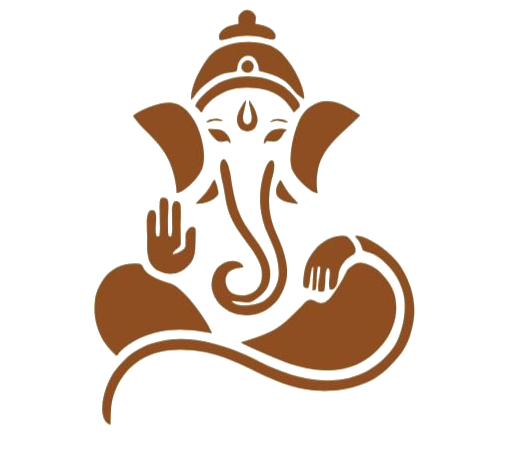
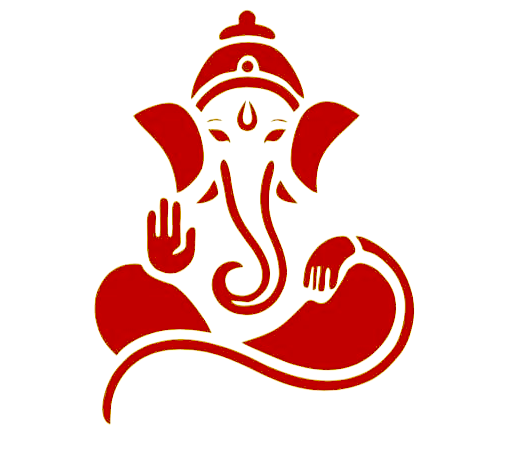
added form and a good bg

Changed region(s): [[0.1818, 0.0, 0.7879, 0.9666]]

diff --git a/index.html b/index.html
@@ -5,7 +5,7 @@
   <title>Nidhi &amp; Jay | Wedding Invitation</title>
   <link href="https://fonts.googleapis.com/css2?family=DM+Sans:wght@400;500;600;700&amp;family=Playfair+Display:wght@400;500;600;700&amp;family=Noto+Serif+Gujarati:wght@400;600&amp;display=swap" rel="stylesheet">
   <style>
-    :root{--paper:#fffaf0;--ink:#483a33;--red:#aa544b;--line:#dec9a9;--teal:#285c58}
+    :root{--paper:#fffaf0;--ink:#483a33;--red:#aa544b;--line:#dec9a9;--teal:#285c58;--line2:#918e83;}
     *{box-sizing:border-box}
     html{scroll-behavior:smooth;scroll-padding-top:85px}
     body{margin:0;width:100%;color:var(--ink);font-family:"DM Sans",sans-serif}
@@ -19,6 +19,7 @@
     .invitation-shell:before,.invitation-shell:after{content:"";position:absolute;top:8%;bottom:8%;width:1px;background:linear-gradient(transparent,#e7d5b94d,transparent);pointer-events:none}
     .invitation-shell:before{left:0}.invitation-shell:after{right:0}
     .fine-rule{height:1px;background:var(--line);max-width:470px;margin:0 auto}
+    .fine-rule2{height:2px;background:var(--line2);width:250px;margin:0 auto}
     .function-names{font-size: 25px; color: rgb(166, 85, 75); font-weight: 400; font-style: normal; margin-top:10px;}
     .event-card{border:1px solid #e8d8c3;background:#fffdf8;box-shadow:0 12px 35px #88654e0b}
     .event-card:before{display:block;color:#bd8171;font-size:17px;margin-bottom:14px}
@@ -27,6 +28,8 @@
     a:focus-visible,button:focus-visible,input:focus-visible{outline:3px solid #b36a55;outline-offset:3px}
     @media(max-width:640px){.invitation-shell:before,.invitation-shell:after{display:none}.petal{opacity:.35}}
     @media(prefers-reduced-motion:reduce){html{scroll-behavior:auto}.petal-layer{display:none}}
+    @font-face{font-family:'Halimun';src:url('/Users/nidhidilesh/Downloads/images/font/halimun/halimun.ttf') format('woff2');font-display:swap;font-style:normal;font-weight:400}
+.script-names{font-family:'Halimun',cursive;font-size:clamp(56px,12vw,10px);text-shadow:0 2px #fff9,0 5px 18px #bd965b30}
     /* Base Button Styling */
 .volume-btn {
   position: fixed;
@@ -187,8 +190,8 @@
    </nav>
   </header>
   <main class="w-full">
-    <img src="bg.jpeg" style="position:absolute;z-index: -998; opacity: 30%; width: 100%; height: 140%; "/>
-   <section id="home" data-template-id="hero-section" class="canva-section w-full px-5 pt-12 pb-16 sm:pt-16 sm:pb-24 text-center" style="background: rgb(255, 250, 240); z-index: -999;">
+    <img src="bg.png" style="position:absolute;z-index: -998; opacity: 1; width: 100%; height: 140%; "/>
+   <section id="home" data-template-id="hero-section" class="canva-section w-full px-5 pt-12 pb-16 sm:pt-16 sm:pb-24 text-center" style="background: rgb(255, 250, 240); z-index: -999; opacity: 1;">
     
     <div id="invitation" class="invitation-shell max-w-3xl mx-auto px-2 sm:px-14" style="padding-top: 40px;">
      <!-- <svg class="mx-auto mb-5 w-28 h-32 sm:w-36 sm:h-40 text-[#b2634e]" viewBox="0 0 160 180" fill="none" role="img" aria-label="Graceful line illustration of Lord Ganesha">
@@ -202,19 +205,22 @@
       </g>
      </svg> -->
      
-     <img class="ganesh hero-reveal" src="ganesha.png" style="accent-color:#aa544b; align-items: center;"/>
-     <p data-template-id="invocation" class="canva-text gujarati mb-3 hero-reveal" style="font-size: 19px; color: rgb(128, 83, 66); font-weight: 400; font-style: normal;">|| શ્રી ગણેશાય નમઃ ||</p>
-     <p data-template-id="elders-blessing" class="canva-text serif italic mb-8 hero-reveal" style="font-size: 17px; color: rgb(174, 101, 84); font-weight: 400; font-style: italic;">With the blessings of our elders</p>
-     <p data-template-id="bride-parents-invitation" class="canva-text serif leading-relaxed hero-reveal" style="font-size: 18px; color: rgb(72, 58, 51); font-weight: 400; font-style: normal;">Mrs. Jagruti Duarcadas and Mr. Dilesh Solanki</p>
+     <img class="ganesh hero-reveal" src="ganesha.png" style="accent-color:#ff1e05; align-items: center;z-index: -999;"/>
+     <p data-template-id="invocation" class="canva-text gujarati mb-3 mb-8 hero-reveal" style="font-size: 19px; color: rgb(189, 33, 33); font-weight: 400; font-style: normal;">|| શ્રી ગણેશાય નમઃ ||</p>
+     <p data-template-id="elders-blessing" class="canva-text serif italic hero-reveal" style="font-size: 16px; color: rgb(72, 58, 51); font-weight: 400; font-style: normal;">With the blessings of our elders</p>
+     <p data-template-id="bride-parents-invitation" class="canva-text serif mt-3 leading-relaxed hero-reveal" style="font-size: 18px; color: rgb(72, 58, 51); font-weight: 400; font-style: normal;"><strong>Mrs. Jagruti Duarcadas</strong> and <strong>Mr. Dilesh Manilal</strong></p>
      <p data-template-id="invitation-request" class="canva-text serif leading-relaxed mt-3 hero-reveal" style="font-size: 16px; color: rgb(72, 58, 51); font-weight: 400; font-style: normal;">cordially invite you to celebrate the wedding ceremony of their Daughter</p>
-     <h1 data-template-id="bride-name" class="canva-text serif italic mt-8 hero-reveal" style="font-size: 58px; font-weight: 500; color: rgb(139, 57, 57); font-style: italic;">Nidhi</h1>
-     <p data-template-id="with-word" class="canva-text serif mt-3 mb-1 hero-reveal" style="font-size: 17px; color: rgb(149, 121, 106); font-weight: 400; font-style: normal;">With</p>
-     <p data-template-id="groom-name" class="canva-text serif italic hero-reveal" style="font-size: 58px; font-weight: 500; color: rgb(139, 57, 57); font-style: italic;">Jay</p>
-     <p data-template-id="son-of" class="canva-text serif mt-7 mb-3 hero-reveal" style="font-size: 16px; color: rgb(121, 88, 78); font-weight: 400; font-style: normal;">Son of</p>
-     <p data-template-id="groom-parents-invitation" class="canva-text serif leading-relaxed hero-reveal" style="font-size: 18px; color: rgb(72, 58, 51); font-weight: 400; font-style: normal;">Mrs. Aarti Mehta and Mr. Deepak Mehta</p>
-     <p data-template-id="invitation-blessing" class="canva-text serif leading-relaxed max-w-xl mx-auto mt-8 hero-reveal" style="font-size: 17px; color: rgb(72, 58, 51); font-weight: 400; font-style: normal;">May your presence and blessings make these moments even more beautiful.</p>
-     <div class="fine-rule mt-9 mb-4"></div>
-     <p data-template-id="with-love" class="canva-text serif italic mt-8 hero-reveal" style="font-size: 17px; color: rgb(166, 85, 75); font-weight: 400; font-style: italic;">With love,</p>
+     <h1 data-template-id="bride-name" class="canva-text serif mt-8 hero-reveal script-names" style="font-size: 58px; font-weight: 500; color: rgb(139, 57, 57);">Nidhi</h1>
+     <p data-template-id="with-word" class="canva-text serif hero-reveal" style="font-size: 17px; color: rgb(149, 121, 106); font-weight: 400; font-style: normal;">With</p>
+     <p data-template-id="groom-name" class="canva-text serif mt-8 hero-reveal script-names" style="font-size: 58px; font-weight: 500; color: rgb(139, 57, 57);">Jay</p>
+     <p data-template-id="son-of" class="canva-text serif mt-8 mb-3 hero-reveal" style="font-size: 16px; color: rgb(72, 58, 51); font-weight: 400; font-style: normal;">Son of</p>
+     <p data-template-id="groom-parents-invitation" class="canva-text serif leading-relaxed hero-reveal" style="font-size: 18px; color: rgb(72, 58, 51); font-weight: 400; font-style: normal;"><strong>Mrs. Aarti Mehta</strong> and <strong>Mr. Deepak Mehta</strong></p><div class="fine-rule mt-9 mb-4"></div>
+     <p data-template-id="wedding-date" class="canva-text uppercase tracking-[.22em] hero-reveal" style="font-size: 12px; font-weight: 700; color: rgb(40, 92, 88); font-style: normal;">On 2nd February 2027 | Tuesday | 4:30pm</p>
+     <div class="fine-rule mt-4 mb-5"></div>
+     <p data-template-id="wedding-venue" class="canva-text serif italic hero-reveal" style="font-size: 22px; color: rgb(166, 85, 75); font-weight: 400; font-style: italic;">At Azzaro Resorts and Spa</p>
+     <p data-template-id="wedding-location" class="canva-text mt-2 uppercase hero-reveal" style="font-size: 15px; color: rgb(72, 58, 51); font-weight: 400; font-style: normal;">Diu</p>
+     <div class="fine-rule mt-5 mb-4"></div>
+     <p data-template-id="with-love" class="canva-text serif italic mt-5 hero-reveal" style="font-size: 17px; color: rgb(166, 85, 75); font-weight: 400; font-style: italic;">With love,</p>
      <p data-template-id="closing-names" class="canva-text serif mt-2 hero-reveal" style="font-size: 17px; color: rgb(72, 58, 51); font-weight: 400; font-style: normal;">Sneha &amp; Krisha</p>
     </div>
    </section>
@@ -232,20 +238,21 @@
         <article data-template-id="mama-card" class="canva-card event-card rounded-2xl p-7 text-center" style="background: rgb(233, 212, 241);">
            <img src="mosadu.png" class="rounded-2xl">
          <h4 data-template-id="mama-name" class="canva-text serif mb-3 function-names">Mama nu mosadu</h4>
+         <div class="fine-rule2 mt-4 mb-4"></div>
          <p data-template-id="mama-date" class="canva-text font-semibold" style="font-size: 14px; color: rgb(128, 80, 66); font-weight: 600; font-style: normal;">31 January 2027 | 10:00 am</p>
-         <!-- <p data-template-id="mama-time" class="canva-text mt-1" style="font-size: 14px; color: rgb(104, 76, 67); font-weight: 400; font-style: normal;">10:00 am</p> -->
-         <p data-template-id="mama-details" class="canva-text mt-2" style="font-size: 14px; color: rgb(104, 76, 67); font-weight: 400; font-style: normal;">Our residence | Vekaria Road, Diu</p>
-         <p data-template-id="reception-time" class="canva-text mt-1" style="font-size: 14px; color: rgb(104, 76, 67); font-weight: 400; font-style: normal;">Followed by lunch</p> 
+         <p data-template-id="mehendi-time" class="canva-text mt-1" style="font-size: 14px; color: rgb(104, 76, 67); font-weight: 400; font-style: normal;">At</p>
+         <p data-template-id="mama-details" class="canva-text mt-2" style="font-size: 14px; color: rgb(104, 76, 67); font-weight: 400; font-style: normal; font-weight: bold;">Our residence | Vekaria Road, Diu</p>
         </article>
        </div>
        <div class="ceremony-flip">
         <article data-template-id="mehendi-card" class="canva-card event-card rounded-2xl p-7 text-center" style="background: rgb(204, 214, 200);">
           <img src="mehendi.png" class="rounded-2xl">
          <h4 data-template-id="mehendi-name" class="canva-text serif mb-3 function-names">Mehendi</h4>
+         <div class="fine-rule2 mt-4 mb-4"></div>
          <p data-template-id="mehendi-date" class="canva-text font-semibold" style="font-size: 14px; color: rgb(128, 80, 66); font-weight: 600; font-style: normal;">31 January 2027 | 7:00 pm</p>
-         <!-- <p data-template-id="mehendi-time" class="canva-text mt-1" style="font-size: 14px; color: rgb(104, 76, 67); font-weight: 400; font-style: normal;">7:00 pm</p> -->
-         <p data-template-id="mehendi-details" class="canva-text mt-2" style="font-size: 14px; color: rgb(104, 76, 67); font-weight: 400; font-style: normal;">Our residence | Vekaria Road, Diu</p>
-         <p data-template-id="reception-time" class="canva-text mt-1" style="font-size: 14px; color: rgb(104, 76, 67); font-weight: 400; font-style: normal;">Followed by dinner</p> 
+         <p data-template-id="mehendi-time" class="canva-text mt-1" style="font-size: 14px; color: rgb(104, 76, 67); font-weight: 400; font-style: normal;">At</p>
+         <p data-template-id="mehendi-details" class="canva-text mt-2" style="font-size: 14px; color: rgb(104, 76, 67); font-weight: 400; font-style: normal; font-weight: bold;">Our residence | Vekaria Road, Diu</p>
+         <p data-template-id="reception-time" class="canva-text mt-1" style="font-size: 14px; color: rgb(104, 76, 67); font-weight: 400; font-style: normal;">Followed by snacks</p> 
         </article>
        </div>
       </div>
@@ -256,11 +263,12 @@
       <div class="grid md:grid-cols-2 lg:grid-cols-3 gap-5">
        <div class="ceremony-flip">
         <article data-template-id="vevishal-card" class="canva-card event-card rounded-2xl p-7 text-center" style="background: rgb(232, 182, 176);">
-          <img src="vevishal.png" class="rounded-2xl" width="313.66px">
+          <img src="vevishal.png" class="rounded-2xl">
          <h4 data-template-id="vevishal-name" class="canva-text serif mb-3 function-names">Vevishal</h4>
+         <div class="fine-rule2 mt-4 mb-4"></div>
          <p data-template-id="vevishal-date" class="canva-text font-semibold" style="font-size: 14px; color: rgb(128, 80, 66); font-weight: 600; font-style: normal;">1 February 2027 | 11:00 am</p>
-         <!-- <p data-template-id="vevishal-time" class="canva-text mt-1" style="font-size: 14px; color: rgb(104, 76, 67); font-weight: 400; font-style: normal;">11:00 am</p> -->
-         <p data-template-id="vevishal-details" class="canva-text mt-2" style="font-size: 14px; color: rgb(104, 76, 67); font-weight: 400; font-style: normal;">Hotel Hemal Gardens, Diu</p>
+         <p data-template-id="mehendi-time" class="canva-text mt-1" style="font-size: 14px; color: rgb(104, 76, 67); font-weight: 400; font-style: normal;">At</p>
+         <p data-template-id="vevishal-details" class="canva-text mt-2" style="font-size: 14px; color: rgb(104, 76, 67); font-weight: 400; font-style: normal; font-weight: bold;">Hotel Hemal Gardens, Diu</p>
          <p data-template-id="reception-time" class="canva-text mt-1" style="font-size: 14px; color: rgb(104, 76, 67); font-weight: 400; font-style: normal;">Followed by lunch</p> 
         </article>
        </div>
@@ -268,18 +276,20 @@
         <article data-template-id="mandap-card" class="canva-card event-card rounded-2xl p-7 text-center" style="background: rgb(255, 212, 244);">
           <img src="mandva.png" class="rounded-2xl">
          <h4 data-template-id="mandap-name" class="canva-text serif mb-3 function-names">Mandap Muhurat</h4>
+         <div class="fine-rule2 mt-4 mb-4"></div>
          <p data-template-id="mandap-date" class="canva-text font-semibold" style="font-size: 14px; color: rgb(128, 80, 66); font-weight: 600; font-style: normal;">1 February 2027 | 3:00 pm</p>
-         <!-- <p data-template-id="mandap-time" class="canva-text mt-1" style="font-size: 14px; color: rgb(104, 76, 67); font-weight: 400; font-style: normal;">3:00 pm</p> -->
-         <p data-template-id="mandap-details" class="canva-text mt-2" style="font-size: 14px; color: rgb(104, 76, 67); font-weight: 400; font-style: normal;">Our residence | Vekaria Road, Diu</p>
+         <p data-template-id="mehendi-time" class="canva-text mt-1" style="font-size: 14px; color: rgb(104, 76, 67); font-weight: 400; font-style: normal;">At</p>
+         <p data-template-id="mandap-details" class="canva-text mt-2" style="font-size: 14px; color: rgb(104, 76, 67); font-weight: 400; font-style: normal; font-weight: bold;">Our residence | Vekaria Road, Diu</p>
         </article>
        </div>
        <div class="ceremony-flip">
         <article data-template-id="sangeet-card" class="canva-card event-card rounded-2xl p-7 text-center" style="background: rgb(195, 205, 255);">
           <img src="sangeet.png" class="rounded-2xl">
          <h4 data-template-id="sangeet-name" class="canva-text serif mb-3 function-names">Sangeet</h4>
+         <div class="fine-rule2 mt-4 mb-4"></div>
          <p data-template-id="sangeet-date" class="canva-text font-semibold" style="font-size: 14px; color: rgb(128, 80, 66); font-weight: 600; font-style: normal;">1 February 2027 | 7:00 pm</p>
-         <!-- <p data-template-id="sangeet-time" class="canva-text mt-1" style="font-size: 14px; color: rgb(104, 76, 67); font-weight: 400; font-style: normal;">7:00 pm</p> -->
-         <p data-template-id="sangeet-details" class="canva-text mt-2" style="font-size: 14px; color: rgb(104, 76, 67); font-weight: 400; font-style: normal;">Hotel Hemal Gardens, Diu</p>
+         <p data-template-id="mehendi-time" class="canva-text mt-1" style="font-size: 14px; color: rgb(104, 76, 67); font-weight: 400; font-style: normal;">At</p>
+         <p data-template-id="sangeet-details" class="canva-text mt-2" style="font-size: 14px; color: rgb(104, 76, 67); font-weight: 400; font-style: normal; font-weight: bold;">Hotel Hemal Gardens, Diu</p>
          <p data-template-id="reception-time" class="canva-text mt-1" style="font-size: 14px; color: rgb(104, 76, 67); font-weight: 400; font-style: normal;">Followed by dinner</p> 
         </article>
        </div>
@@ -293,27 +303,30 @@
         <article data-template-id="haldi-card" class="canva-card event-card rounded-2xl p-7 text-center" style="background: rgb(250, 229, 167);">
           <img src="haldi.png" class="rounded-2xl">
          <h4 data-template-id="haldi-name" class="canva-text serif mb-3 function-names">Pithi</h4>
+         <div class="fine-rule2 mt-4 mb-4"></div>
          <p data-template-id="haldi-date" class="canva-text font-semibold" style="font-size: 14px; color: rgb(128, 80, 66); font-weight: 600; font-style: normal;">2 February 2027 | 10:00 am</p>
-         <!-- <p data-template-id="haldi-time" class="canva-text mt-1" style="font-size: 14px; color: rgb(104, 76, 67); font-weight: 400; font-style: normal;">10:00 am</p> -->
-         <p data-template-id="haldi-details" class="canva-text mt-2" style="font-size: 14px; color: rgb(104, 76, 67); font-weight: 400; font-style: normal;">Our residence | Vekaria Road, Diu</p>
+         <p data-template-id="mehendi-time" class="canva-text mt-1" style="font-size: 14px; color: rgb(104, 76, 67); font-weight: 400; font-style: normal;">At</p>
+         <p data-template-id="haldi-details" class="canva-text mt-2" style="font-size: 14px; color: rgb(104, 76, 67); font-weight: 400; font-style: normal; font-weight: bold;">Our residence | Vekaria Road, Diu</p>
         </article>
        </div>
        <div class="ceremony-flip">
         <article data-template-id="hastmelap-card" class="canva-card event-card rounded-2xl p-7 text-center" style="background: rgb(255, 144, 144);">
           <img src="hastmelap.png" class="rounded-2xl">
          <h4 data-template-id="hastmelap-name" class="canva-text serif mb-3 function-names">Hastmelap</h4>
+         <div class="fine-rule2 mt-4 mb-4"></div>
          <p data-template-id="hastmelap-date" class="canva-text font-semibold" style="font-size: 14px; color: rgb(128, 80, 66); font-weight: 600; font-style: normal;">2 February 2027 | 4:30 pm</p>
-         <!-- <p data-template-id="hastmelap-time" class="canva-text mt-1" style="font-size: 14px; color: rgb(104, 76, 67); font-weight: 400; font-style: normal;">4:30 pm</p> -->
-         <p data-template-id="hastmelap-details" class="canva-text mt-2" style="font-size: 14px; color: rgb(104, 76, 67); font-weight: 400; font-style: normal;">Azzaro Resorts and Spa, Diu</p>
+         <p data-template-id="mehendi-time" class="canva-text mt-1" style="font-size: 14px; color: rgb(104, 76, 67); font-weight: 400; font-style: normal;">At</p>
+         <p data-template-id="hastmelap-details" class="canva-text mt-2" style="font-size: 14px; color: rgb(104, 76, 67); font-weight: 400; font-style: normal; font-weight: bold;">Azzaro Resorts and Spa, Diu</p>
         </article>
        </div>
        <div class="ceremony-flip">
         <article data-template-id="reception-card" class="canva-card event-card rounded-2xl p-7 text-center" style="background: rgb(255, 206, 189);">
           <img src="wedding.png" class="rounded-2xl">
          <h4 data-template-id="reception-name" class="canva-text serif mb-3 function-names">Reception</h4>
+         <div class="fine-rule2 mt-4 mb-4"></div>
          <p data-template-id="reception-date" class="canva-text font-semibold" style="font-size: 14px; color: rgb(128, 80, 66); font-weight: 600; font-style: normal;">2 February 2027 | 7:00 pm</p>
-         <!-- <p data-template-id="reception-time" class="canva-text mt-1" style="font-size: 14px; color: rgb(104, 76, 67); font-weight: 400; font-style: normal;">7:00 pm</p> -->
-         <p data-template-id="reception-details" class="canva-text mt-2" style="font-size: 14px; color: rgb(104, 76, 67); font-weight: 400; font-style: normal;">Azzaro Resorts and Spa, Diu</p>
+         <p data-template-id="mehendi-time" class="canva-text mt-1" style="font-size: 14px; color: rgb(104, 76, 67); font-weight: 400; font-style: normal;">At</p>
+         <p data-template-id="reception-details" class="canva-text mt-2" style="font-size: 14px; color: rgb(104, 76, 67); font-weight: 400; font-style: normal; font-weight: bold;">Azzaro Resorts and Spa, Diu</p>
          <p data-template-id="reception-time" class="canva-text mt-1" style="font-size: 14px; color: rgb(104, 76, 67); font-weight: 400; font-style: normal;">Followed by dinner</p> 
         </article>
        </div>
@@ -365,7 +378,7 @@
 <script>
   const volumeBtn = document.getElementById('volume-toggle');
 const music = document.getElementById('bg-music');
-
+volumeBtn.classList.add('muted');
 volumeBtn.addEventListener('click', () => {
   if (music.paused) {
     music.play();
@@ -435,65 +448,62 @@ volumeBtn.addEventListener('click', () => {
           if (card.getBoundingClientRect().top > window.innerHeight) card.classList.add('flip-ready');
         });
       }
-      const form = document.getElementById('rsvp-form');
-      const name = document.getElementById('guest-name');
-      const count = document.getElementById('guest-count');
-      const button = document.getElementById('submit-rsvp');
-      const status = document.getElementById('rsvp-status');
-      let ready = false;
-      let busy = false;
-      function message(text, error = false) {
-        status.textContent = text;
-        status.style.color = error ? '#a12b30' : '#246145';
-      }
-      form.addEventListener('submit', async event => {
-        event.preventDefault();
-        if (busy) return;
-        const guestName = name.value.trim();
-        const rawCount = count.value.trim();
-        const partySize = Number(rawCount);
-        if (!guestName) {
-          message('Please enter your name.', true);
-          name.focus();
-          return;
-        }
-        if (!rawCount || !Number.isInteger(partySize) || partySize < 1 || partySize > 20) {
-          message('Enter a whole number from 1 to 20, including yourself.', true);
-          count.focus();
-          return;
-        }
-        if (!ready) {
-          message('RSVP is temporarily unavailable. Please try again shortly.', true);
-          return;
-        }
-        busy = true;
-        button.disabled = true;
-        message('Sending your RSVP…');
-        try {
-          const result = await window.dataSdk.create({
-            guest_name: guestName,
-            number_of_guests: partySize,
-            submitted_at: new Date().toISOString()
-          });
-          if (!result.isOk) throw result.error;
-          form.reset();
-          message('Thank you! Your RSVP has been received.');
-        } catch (_) {
-          message('Your RSVP could not be sent. Please try again.', true);
-        } finally {
-          busy = false;
-          button.disabled = false;
-        }
-      });
-      (async () => {
-        try {
-          const result = await window.dataSdk.init({ onDataChanged() {} });
-          ready = result.isOk;
-          if (!ready) message('RSVP is temporarily unavailable. Please try again shortly.', true);
-        } catch (_) {
-          message('RSVP is temporarily unavailable. Please try again shortly.', true);
-        }
-      })();
+      
+const form = document.getElementById('rsvp-form');
+const name = document.getElementById('guest-name');
+const count = document.getElementById('guest-count');
+const button = document.getElementById('submit-rsvp');
+const status = document.getElementById('rsvp-status');
+
+// Paste your deployed Google Apps Script URL here
+const GOOGLE_SCRIPT_URL = 'https://script.google.com/macros/s/AKfycbxG1-ldSiLT3qjehogHf2h2FiXYuRa22RfHKbpqWl7eaA5_OBcFgH1yjApFbTsXzELQ/exec';
+
+form.addEventListener('submit', async (event) => {
+  event.preventDefault();
+
+  const guestName = name.value.trim();
+  const rawCount = count.value.trim();
+  const partySize = Number(rawCount);
+
+  if (!guestName) {
+    status.textContent = 'Please enter your name.';
+    return;
+  }
+
+  if (!rawCount || !Number.isInteger(partySize) ||
+      partySize < 1 || partySize > 20) {
+    status.textContent = 'Please enter a valid number of guests.';
+    return;
+  }
+
+  button.disabled = true;
+  status.textContent = 'Sending your RSVP...';
+
+  try {
+    await fetch(GOOGLE_SCRIPT_URL, {
+      method: 'POST',
+      mode: 'no-cors',
+      headers: {
+        'Content-Type': 'text/plain;charset=utf-8'
+      },
+      body: JSON.stringify({
+        guest_name: guestName,
+        number_of_guests: partySize,
+        submitted_at: new Date().toISOString()
+      })
+    });
+
+    form.reset();
+    status.textContent = 'Thank you! Your RSVP has been received.';
+
+  } catch (error) {
+    status.textContent =
+      'Your RSVP could not be sent. Please try again.';
+  } finally {
+    button.disabled = false;
+  }
+});
+
     })();
   </script>
  
